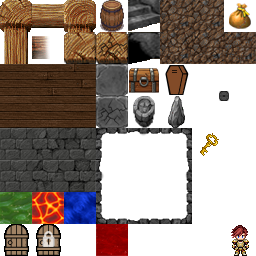
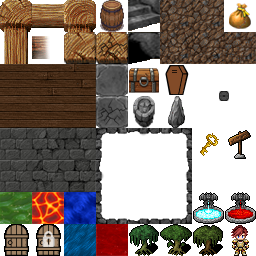
added more tile images

Changed region(s): [[0.5, 0.75, 1.0, 1.0], [0.25, 0.875, 0.375, 1.0], [0.875, 0.5, 1.0, 0.625]]

diff --git a/src/state-editor.cpp b/src/state-editor.cpp
@@ -269,7 +269,8 @@ namespace castlecrawl
         else if (keyScancode == sf::Keyboard::Scancode::Period)    { editMap(t_context, '.', '.'); }
         else if (keyScancode == sf::Keyboard::Scancode::A)         { editMap(t_context, 'A', 'a'); }
         else if (keyScancode == sf::Keyboard::Scancode::D)         { editMap(t_context, 'D', 'd'); }
-        else if (keyScancode == sf::Keyboard::Scancode::E)         { editMap(t_context, 'e', 'e'); }
+        else if (keyScancode == sf::Keyboard::Scancode::E)         { editMap(t_context, 'E', 'e'); }
+        else if (keyScancode == sf::Keyboard::Scancode::H)         { editMap(t_context, 'H', 'h'); }
         else if (keyScancode == sf::Keyboard::Scancode::S)         { editMap(t_context, 'S', 's'); }
         else if (keyScancode == sf::Keyboard::Scancode::R)         { editMap(t_context, 'R', 'r'); }
         else if (keyScancode == sf::Keyboard::Scancode::L)         { editMap(t_context, 'l', 'l'); }
@@ -284,9 +285,9 @@ namespace castlecrawl
         else if (keyScancode == sf::Keyboard::Scancode::Num2)      { editMap(t_context, '@', '2'); }
         else if (keyScancode == sf::Keyboard::Scancode::Num3)      { editMap(t_context, '#', '3'); }
         else if (keyScancode == sf::Keyboard::Scancode::Num4)      { editMap(t_context, '$', '4'); }
-        else if (keyScancode == sf::Keyboard::Scancode::Num5)      { editMap(t_context, '5', '5'); }
-        else if (keyScancode == sf::Keyboard::Scancode::Num6)      { editMap(t_context, '6', '6'); }
-        else if (keyScancode == sf::Keyboard::Scancode::Num7)      { editMap(t_context, '7', '7'); }
+        else if (keyScancode == sf::Keyboard::Scancode::Num5)      { editMap(t_context, '%', '5'); }
+        else if (keyScancode == sf::Keyboard::Scancode::Num6)      { editMap(t_context, '^', '6'); }
+        else if (keyScancode == sf::Keyboard::Scancode::Num7)      { editMap(t_context, '&', '7'); }
         else if (keyScancode == sf::Keyboard::Scancode::Num8)      { editMap(t_context, '8', '8'); }
         else if (keyScancode == sf::Keyboard::Scancode::Num9)      { editMap(t_context, '9', '9'); }
         else if (keyScancode == sf::Keyboard::Scancode::Semicolon) { editMap(t_context, ';', ':'); }
@@ -297,14 +298,14 @@ namespace castlecrawl
 
     void StateEditor::updateHelpText(const Context & t_context)
     {
-        if (sf::Keyboard::isKeyPressed(sf::Keyboard::Scancode::H) ||
-            sf::Keyboard::isKeyPressed(sf::Keyboard::Scancode::Slash))
+        if (sf::Keyboard::isKeyPressed(sf::Keyboard::Scancode::Slash))
         {
             const std::string keyText(
                 "Esc-Quit\nCNTRL-s-Save\nCNTRL-l-Load\nSpace-Bare Floor\nPeriod-Erase\n"
                 "f-Change-Flooring\nr-Rock\nR-WeakRock\nl-Lava\nw-Water\nc-Chest\nk-Coffin\n"
-                "!-Bag\n@-Altar\n#-StoneSpire\n$-Key\nq-WeakWoodBlock\na-Campfire\n"
+                "!-Bag\n@-Altar\n#-StoneSpire\n$-Key\nq-WeakWoodBlock\na-Campfire\n%^&-Trees\n"
                 "S-Stairs Up\ns-Stair Down\nD-Door Locked\nd-Door Unlocked\nA-Inferno\n"
+                "h-Water Fountain\nH-Blood Fountain\nE-Sign\n"
                 "0-Snake\n1-SnakeBag\n2-Spider\n3-Spiderweb\n4-Goblin\n5-GoblinBarrel\n"
                 "6-Bat\n7-BatMask\n8-Skeleton\n9-SkeletonGrave\n:-Demon\n;-DemonDoor\n"
                 "[-Dragon\n]-DragonInferno");
@@ -313,7 +314,7 @@ namespace castlecrawl
 
             m_keyText.setPosition({ ((t_context.layout.topRect().size.x * 0.5f) -
                                      (m_keyText.getGlobalBounds().size.x * 0.5f)),
-                                    (t_context.layout.topRect().size.y + 25.0f) });
+                                    (t_context.layout.topRect().size.y - 50.0f) });
         }
         else
         {
@@ -482,6 +483,8 @@ namespace castlecrawl
         {
             case ' ': { return "Bare Floor"; }
             case '.': { return "Erase"; }
+            case 'h': { return "Water Fountain"; }
+            case 'H': { return "Blood Fountain"; }
             case 'a': { return "Campfire"; }
             case 'A': { return "Inferno"; }
             case 'D': { return "Door Locked"; }
@@ -491,6 +494,7 @@ namespace castlecrawl
             case 'r': { return "Rock"; }
             case 'R': { return "Weak Rock"; }
             case 'e': { return "Blood"; }
+            case 'E': { return "Sign"; }
             case 'l': { return "Lava"; }
             case 'w': { return "Water"; }
             case 'g': { return "Slime"; }
@@ -501,6 +505,10 @@ namespace castlecrawl
             case '@': { return "Altar"; }
             case '#': { return "StoneSpire"; }
             case '$': { return "Key"; }
+            case '%': { return "Tree"; }
+            case '^': { return "Tree"; }
+            case '&': { return "Tree"; }
+            case 'i': { return "Ice"; }
             case '0': { return "Snake"; }
             case '1': { return "Snake Bag"; }
             case '2': { return "Spider"; }

diff --git a/src/tile-image-enum.hpp b/src/tile-image-enum.hpp
@@ -14,10 +14,14 @@ namespace castlecrawl
     enum class TileImage : std::size_t
     {
         Empty = 0,
+        Sign,
+        FountainWater,
+        FountainBlood,
         Campfire,
         Inferno,
         Rock,
         RockWeak,
+        Ice,
         Blood,
         Lava,
         Water,
@@ -34,6 +38,9 @@ namespace castlecrawl
         Altar,
         StoneSpire,
         Key,
+        Tree1,
+        Tree2,
+        Tree3,
         Wall_TopLeft,
         Wall_Horiz,
         Wall_Top,
@@ -82,10 +89,14 @@ namespace castlecrawl
         // clang-format off
         switch (ch)
         {
+            case 'E':    { return TileImage::Sign;               }
+            case 'h':    { return TileImage::FountainWater;      }
+            case 'H':    { return TileImage::FountainBlood;      }
             case 'a':    { return TileImage::Campfire;           }
             case 'A':    { return TileImage::Inferno;            }
             case 'r':    { return TileImage::Rock;               }
             case 'R':    { return TileImage::RockWeak;           }
+            case 'i':    { return TileImage::Ice;                }
             case 'e':    { return TileImage::Blood;              }
             case 'l':    { return TileImage::Lava;               }
             case 'w':    { return TileImage::Water;              }
@@ -101,6 +112,9 @@ namespace castlecrawl
             case '@':    { return TileImage::Altar;              }
             case '#':    { return TileImage::StoneSpire;         }
             case '$':    { return TileImage::Key;                }
+            case '%':    { return TileImage::Tree1;              }
+            case '^':    { return TileImage::Tree2;              }
+            case '&':    { return TileImage::Tree3;              }
             case 'C':    { return TileImage::Wall_TopLeft;       }
             case '-':    { return TileImage::Wall_Horiz;         }
             case 'T':    { return TileImage::Wall_Top;           }
@@ -149,9 +163,13 @@ namespace castlecrawl
         // clang-format off
         switch (tileImage)
         {
+            case TileImage::Sign:               { return sf::IntRect( {224,128},{32,32}); }
+            case TileImage::FountainWater:      { return sf::IntRect( {192,192},{32,32}); }
+            case TileImage::FountainBlood:      { return sf::IntRect( {224,192},{32,32}); }
             case TileImage::Campfire:           { return sf::IntRect( { 64,224},{32,32}); }
             case TileImage::Rock:               { return sf::IntRect( { 96, 64},{32,32}); }
             case TileImage::RockWeak:           { return sf::IntRect( { 96, 96},{32,32}); }
+            case TileImage::Ice:                { return sf::IntRect( { 64,224},{32,32}); }
             case TileImage::Blood:              { return sf::IntRect( { 96,224},{32,32}); }
             case TileImage::Lava:               { return sf::IntRect( { 32,192},{32,32}); }
             case TileImage::Water:              { return sf::IntRect( { 64,192},{32,32}); }
@@ -167,6 +185,9 @@ namespace castlecrawl
             case TileImage::Altar:              { return sf::IntRect( {128, 96},{32,32}); }
             case TileImage::StoneSpire:         { return sf::IntRect( {160, 96},{32,32}); }
             case TileImage::Key:                { return sf::IntRect( {192,128},{32,32}); }
+            case TileImage::Tree1:              { return sf::IntRect( {128,224},{32,32}); }
+            case TileImage::Tree2:              { return sf::IntRect( {160,224},{32,32}); }
+            case TileImage::Tree3:              { return sf::IntRect( {192,224},{32,32}); }
             case TileImage::Wall_TopLeft:       { return sf::IntRect( {  0,  0},{32,32}); }
             case TileImage::Wall_Horiz:         { return sf::IntRect( { 32,  0},{32,32}); }
             case TileImage::Wall_Top:           { return sf::IntRect( { 64,  0},{32,32}); }

diff --git a/src/mouseover.cpp b/src/mouseover.cpp
@@ -177,6 +177,28 @@ namespace castlecrawl
             {
                 message = "blood";
             }
+            else if (mapCell.object_char == 'E')
+            {
+                message = "sign";
+            }
+            else if (mapCell.object_char == 'i')
+            {
+                message = "ice";
+            }
+            else if (
+                (mapCell.object_char == '%') || (mapCell.object_char == '^') ||
+                (mapCell.object_char == '&'))
+            {
+                message = "tree";
+            }
+            else if (mapCell.object_char == 'h')
+            {
+                message = "water fountain";
+            }
+            else if (mapCell.object_char == 'H')
+            {
+                message = "blood fountain";
+            }
         }
 
         if (message.empty())

diff --git a/src/map-display.cpp b/src/map-display.cpp
@@ -141,8 +141,9 @@ namespace castlecrawl
 
     void MapDisplay::appendLiquidEdgeVerts(const Context & t_context)
     {
+        // liquid or ice anyway (anything that needs the liquid edges drawn around it)
         auto isLiquid = [](const char ch) {
-            return ((ch == 'l') || (ch == 'w') || (ch == 'g') || (ch == 'e'));
+            return ((ch == 'l') || (ch == 'w') || (ch == 'g') || (ch == 'e') || (ch == 'i'));
         };
 
         auto validNotLiquid = [&](const char ch, const MapPos_t & pos) {
